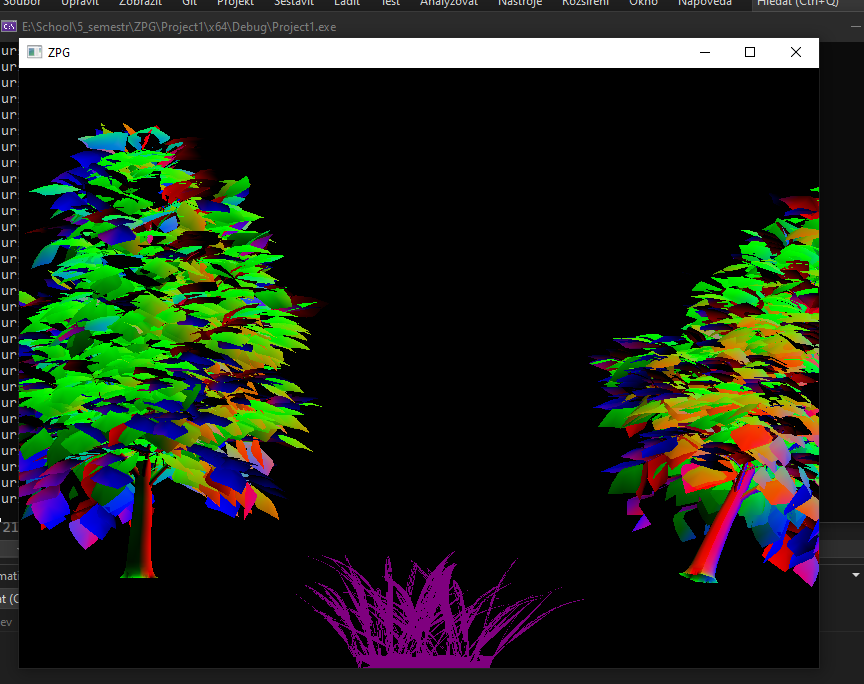
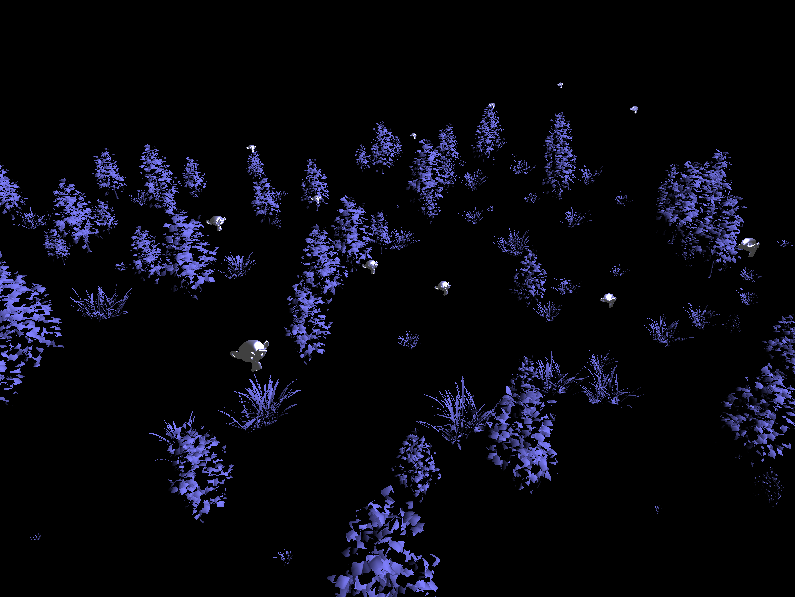
flashlight

diff --git a/Project1/App.cpp b/Project1/App.cpp
@@ -4,6 +4,7 @@
 #include "../Models/gift.h"
 #include "../Models/sphere.h"
 #include "../Models/suzi_smooth.h"
+#include "../Models/plain.h"
 #include "DynamicRotate.h"
 #include "RandomTranslate.h"
 
@@ -24,6 +25,7 @@ Model* giftModel;
 Model* triangleModel;
 Model* sphereModel;
 Model* suziSmoothModel;
+Model* plainModel;
 
 Scene* scene1;
 Scene* scene2;
@@ -148,7 +150,7 @@ void App::initialization()
 	glfwSetWindowSizeCallback(window, window_size_callback);
 	
 
-	glfwSetInputMode(window, GLFW_CURSOR, GLFW_CURSOR_HIDDEN);
+	//glfwSetInputMode(window, GLFW_CURSOR, GLFW_CURSOR_HIDDEN);
 	glfwSetCursorPos(window, width / 2, height / 2);
 	glfwSetCursorPosCallback(window, [](GLFWwindow* window, double xpos, double ypos) {
 		App* app = static_cast<App*>(glfwGetWindowUserPointer(window));
@@ -189,6 +191,8 @@ void App::createModels()
 	triangleModel = new Model(points, sizeof(points) / sizeof(points[0]), GL_TRIANGLES, 0, 3);
 	sphereModel = new Model(sphere, sizeof(sphere) / sizeof(sphere[0]), GL_TRIANGLES, 0, sizeof(sphere));
 	suziSmoothModel = new Model(suziSmooth, sizeof(suziSmooth) / sizeof(suziSmooth[0]), GL_TRIANGLES, 0, sizeof(suziSmooth));
+	plainModel = new Model(plain, sizeof(plain) / sizeof(plain[0]), GL_TRIANGLES, 0, sizeof(plain));
+	
 }
 void App::createCameras()
 {
@@ -197,7 +201,7 @@ void App::createCameras()
 
 void App::createScenes()
 {
-	Light* light1 = new Light(glm::vec3(3.0f, 8.0f, 5.0f), glm::vec4(0.5f, 0.5f, 1.f, 1.0f));
+	Light* light1 = new Light(glm::vec3(0.0f, 5.0f, 0.0f), glm::vec4(0.5f, 0.5f, 1.f, 1.0f), glm::vec3(0.05f, -1.0f, 0.0f), 25.f);
 	Light* light2 = new Light(glm::vec3(0.0f, 0.0f, 0.0f), glm::vec4(1.0f, 1.0f, 1.f, 1.0f));
 	Light* light3 = new Light(glm::vec3(3.0f, 2.0f, 8.0f), glm::vec4(0.5f, 0.5f, 1.f, 1.0f));
 	//Transformation transformation;
@@ -212,19 +216,27 @@ void App::createScenes()
 	scene2->setCamera(camera);
 	scene3->setCamera(camera);
 	scene4->setCamera(camera);
+	camera->attach(light1);
 
 	scene1->addLight(light1);
 	scene2->addLight(light2);
 	scene3->addLight(light3);
 	//scene3->addLight(light1);
-	scene2->addLight(light1);
-	scene4->addLight(light1);
+	//scene2->addLight(light1);
+	//scene4->addLight(light1);
 
 	
 
 
 
 	scene->addObject(new DrawableObject(triangleModel, shader1));
+
+	DrawableObject* drawablePlain = new DrawableObject(plainModel, shaderPhong);
+	Transformation transformationPlain;
+	transformationPlain.add(std::make_shared <Translate>(0.f, 0.f, 0.f));
+	transformationPlain.add(std::make_shared <Scale>(50.f, 50.f, 50.f));
+	drawablePlain->setTransformation(transformationPlain);
+	scene1->addObject(drawablePlain);
 	
 	for (int i = 0; i < 100; i++) {
 		std::srand(static_cast<unsigned int>(6646545+i*1000000));
@@ -238,11 +250,14 @@ void App::createScenes()
 		float heigth = (float)((std::rand() % (upperBoundHeigth - lowerBoundHeigth + 1)) + lowerBoundHeigth)/100;
 		float x = (float)((std::rand() % (upperBound - lowerBound + 1)) + lowerBound);
 		float z = (float)((std::rand() % (upperBound - lowerBound + 1)) + lowerBound);
-		DrawableObject* drawableTree = new DrawableObject(treeModel, shaderConstant);
+		DrawableObject* drawableTree = new DrawableObject(treeModel, shaderPhong);
 		Transformation transformation;
 
+		auto autoRotate = std::make_shared<DynamicRotate>(1.f,0.f, 1.f, 0.f);
+		
 		auto translate = std::make_shared<Translate>(x, 0.f, z);
 		transformation.add(translate);
+		transformation.add(autoRotate);
 		auto rotate = std::make_shared<Rotate>(randAngle, 0.0f, 1.0f, 0.0f);
 		transformation.add(rotate);
 		auto scale = std::make_shared<Scale>(0.5f * heigth, 0.5f * heigth, 0.5f * heigth);
@@ -264,7 +279,7 @@ void App::createScenes()
 		float heigth = (float)((std::rand() % (upperBoundHeigth - lowerBoundHeigth + 1)) + lowerBoundHeigth) / 100;
 		float x = (float)((std::rand() % (upperBound - lowerBound + 1)) + lowerBound);
 		float z = (float)((std::rand() % (upperBound - lowerBound + 1)) + lowerBound);
-		DrawableObject* drawableBush = new DrawableObject(bushModel, shaderConstant);
+		DrawableObject* drawableBush = new DrawableObject(bushModel, shaderPhong);
 		Transformation transformation;
 
 		auto translate = std::make_shared<Translate>(x, 0.f, z);
@@ -281,7 +296,7 @@ void App::createScenes()
 
 	for (int i = 0; i < 20; i++) {
 
-		DrawableObject* drawableSuziSmooth = new DrawableObject(suziSmoothModel, shaderBlinn);
+		DrawableObject* drawableSuziSmooth = new DrawableObject(suziSmoothModel, shaderPhong);
 		Transformation transformation;
 		int upperBound = 20;
 		int lowerBound = -20;
@@ -402,13 +417,11 @@ void App::run()
 		if (glfwGetKey(window, GLFW_KEY_D) == GLFW_PRESS) {
 			camera->moveRight();
 		}
-		if(glfwGetKey(window, GLFW_KEY_ESCAPE) == GLFW_PRESS){
-			lockMouse = !lockMouse;
-			if(!lockMouse)
-				glfwSetInputMode(window, GLFW_CURSOR, GLFW_CURSOR_HIDDEN);
-				
-			else
-				glfwSetInputMode(window, GLFW_CURSOR, GLFW_CURSOR_NORMAL);
+		if(glfwGetMouseButton(window, GLFW_MOUSE_BUTTON_RIGHT) == GLFW_RELEASE){
+			lockMouse = true;
+		}
+		if (glfwGetMouseButton(window, GLFW_MOUSE_BUTTON_RIGHT) == GLFW_PRESS) {
+			lockMouse = false;
 		}
 
 		

diff --git a/Project1/ShaderProgram.cpp b/Project1/ShaderProgram.cpp
@@ -42,11 +42,10 @@ void ShaderProgram::update(Subject* subject)
         glUniform3fv(idCameraPosition, 1, glm::value_ptr(camera->getPosition()));
     }
 
-    // if (auto light = dynamic_cast<Light*>(subject))
-    // {
-    //     glUniform3fv(idLightPosition, 1, glm::value_ptr(light->getPosition()));
-    //     glUniform4fv(idLightColor, 1, glm::value_ptr(light->getColor()));
-    // }
+    if (auto light = dynamic_cast<Light*>(subject))
+    {
+        loadLights();
+    }
 }
 
 void ShaderProgram::addLights(std::vector<Light*> lights)
@@ -63,6 +62,9 @@ void ShaderProgram::loadLights()
         
         glUniform3fv(glGetUniformLocation(shaderProgram, ("lights[" + std::to_string(i) + "].position").c_str()), 1, glm::value_ptr(lights[i]->getPosition()));
         glUniform4fv(glGetUniformLocation(shaderProgram, ("lights[" + std::to_string(i) + "].color").c_str()), 1, glm::value_ptr(lights[i]->getColor()));
+        glUniform1i(glGetUniformLocation(shaderProgram, ("lights[" + std::to_string(i) + "].mode").c_str()), lights[i]->getMode());
+        glUniform3fv(glGetUniformLocation(shaderProgram, ("lights[" + std::to_string(i) + "].spotDir").c_str()), 1, glm::value_ptr(lights[i]->getLightDirection()));
+        glUniform1f(glGetUniformLocation(shaderProgram, ("lights[" + std::to_string(i) + "].cutoff").c_str()), lights[i]->getCutoff());
     }
 }
 

diff --git a/Project1/Light.cpp b/Project1/Light.cpp
@@ -1,7 +1,19 @@
 #include "Light.h"
 
+#include "Camera.h"
+
 Light::Light(const glm::vec3& position, const glm::vec4& color) : position(position), color(color)
 {
+	mode = 0;
+}
+
+Light::Light(const glm::vec3& position, const glm::vec4& color, glm::vec3 lightDirection, float cutoff)
+{
+	this->position = position;
+	this->color = color;
+	this->lightDirection = lightDirection;
+	this->cutoff = cutoff;
+	this->mode = 1;
 }
 
 void Light::attach(Observer* observer)
@@ -29,4 +41,29 @@ glm::vec3 Light::getPosition()
 glm::vec4 Light::getColor()
 {
 	return color;
+}
+
+void Light::update(Subject* subject)
+{
+	if(auto camera = dynamic_cast<Camera*>(subject))
+	{
+		lightDirection = camera->getTarget();
+		position = camera->getPosition();
+	}
+	notify();
+}
+
+int Light::getMode()
+{
+	return mode;
+}
+
+float Light::getCutoff()
+{
+	return cutoff;
+}
+
+glm::vec3 Light::getLightDirection()
+{
+	return lightDirection;
 }

diff --git a/Project1/Light.h b/Project1/Light.h
@@ -4,21 +4,29 @@
 #include <glm/vec4.hpp>
 #include <vector>
 
-class Light : public Subject
+class Light : public Subject, public Observer
 {
 public:
 	Light(const glm::vec3& position, const glm::vec4& color);
+	Light(const glm::vec3& position, const glm::vec4& color, glm::vec3 lightDirection, float cutoff);
 
 	void attach(Observer* observer) override;
 	void detach(Observer* observer) override;
 	void notify() override;
 	glm::vec3 getPosition();
 	glm::vec4 getColor();
+	void update(Subject* subject) override;
+	int getMode();
+	float getCutoff();
+	glm::vec3 getLightDirection();
 
 
 private:
 	glm::vec3 position;  
 	glm::vec4 color; 
 	std::vector<Observer*> observers;
+	glm::vec3 lightDirection;
+	float cutoff;
+	int mode;
 };
 

diff --git a/Project1/Camera.h b/Project1/Camera.h
@@ -24,6 +24,7 @@ public:
 	glm::vec3 getPosition();
 	void setProjection(float fov, float aspect, float near, float far);
 	void updateAspect(float width, float height);
+	glm::vec3 getTarget();
 
 	void attach(Observer* observer) override;
 	void detach(Observer* observer) override;

diff --git a/Project1/Camera.cpp b/Project1/Camera.cpp
@@ -107,7 +107,10 @@ void Camera::updateAspect(float width, float height)
     setProjection(fov, aspect, 0.1f, 100.0f);
 }
 
-
+glm::vec3 Camera::getTarget()
+{
+    return target;
+}
 
 
 void Camera::attach(Observer* observer)
